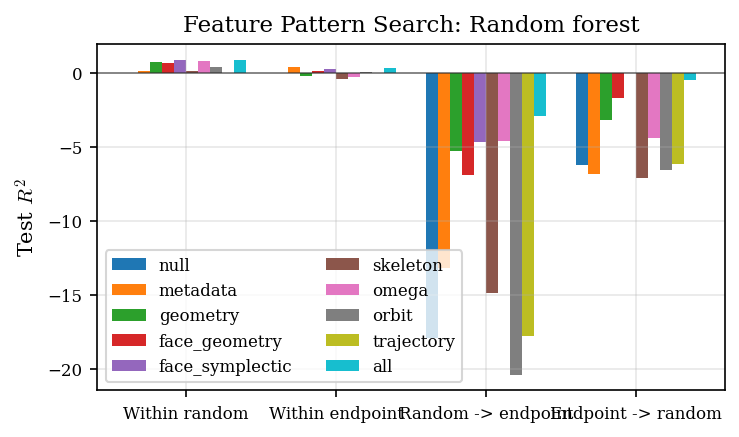
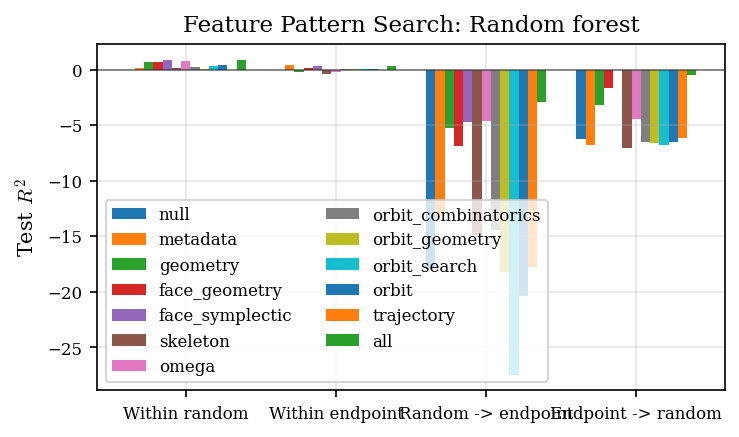
Split orbit feature analysis blocks

diff --git a/experiments/sys-landscape/feature-pattern-search/analyze.py b/experiments/sys-landscape/feature-pattern-search/analyze.py
@@ -95,11 +95,55 @@ FEATURE_BLOCKS = [
     "face_symplectic",
     "skeleton",
     "omega",
+    "orbit_combinatorics",
+    "orbit_geometry",
+    "orbit_search",
     "orbit",
     "trajectory",
     "all",
 ]
 MODEL_SPECS = [("ridge", "Ridge"), ("rf", "Random forest")]
+
+ORBIT_COMBINATORICS_KEYS = [
+    "orbit_sigma_available",
+    "orbit_sigma_count",
+    "orbit_sigma_gap_cutoff",
+    "orbit_sigma_len",
+    "orbit_sigma_fraction",
+    "orbit_selected_out_degree_mean",
+    "orbit_selected_out_degree_std",
+    "orbit_selected_out_degree_min",
+    "orbit_selected_out_degree_max",
+    "orbit_cycle_zero_fraction",
+    "orbit_cycle_transition_fraction",
+    "orbit_cycle_bidirectional_fraction",
+    "orbit_cycle_adjacent_fraction",
+]
+ORBIT_GEOMETRY_KEYS = [
+    "orbit_selected_norm_mean",
+    "orbit_selected_norm_std",
+    "orbit_selected_norm_min",
+    "orbit_selected_norm_max",
+    "orbit_cycle_abs_omega_mean",
+    "orbit_cycle_abs_omega_std",
+    "orbit_cycle_abs_omega_min",
+    "orbit_cycle_abs_omega_max",
+    "orbit_cycle_abs_omega_le_1e3_fraction",
+    "orbit_cycle_abs_omega_le_1e2_fraction",
+    "orbit_cycle_abs_omega_le_1e1_fraction",
+]
+ORBIT_SEARCH_KEYS = [
+    "orbit_kkt_available",
+    "orbit_search_scalar_available",
+    "orbit_result_iterations_log1p",
+    "orbit_result_returned_orbit_count",
+    "orbit_best_beta_margin",
+    "orbit_best_q_error_bound",
+    "orbit_best_has_mu",
+    "orbit_best_has_xi",
+    "orbit_best_is_admissible_exact",
+    "orbit_best_is_indeterminate_f64",
+]
 
 
 @dataclass
@@ -459,6 +503,12 @@ def build_feature_dict(row: JoinedRow, block: str) -> dict[str, float | str]:
         return dict(row.skeleton)
     if block == "omega":
         return dict(row.omega)
+    if block == "orbit_combinatorics":
+        return {key: row.orbit[key] for key in ORBIT_COMBINATORICS_KEYS}
+    if block == "orbit_geometry":
+        return {key: row.orbit[key] for key in ORBIT_GEOMETRY_KEYS}
+    if block == "orbit_search":
+        return {key: row.orbit[key] for key in ORBIT_SEARCH_KEYS}
     if block == "orbit":
         return dict(row.orbit)
     if block == "trajectory":
@@ -716,9 +766,12 @@ def write_summary(
             "- `face_symplectic`: ridge-polygon symplectic-area summaries after volume normalization by `vol(K)^(1/2)`",
             "- `skeleton`: combinatorial counts and degree summaries from the exact 4D face lattice",
             "- `omega`: volume-normalized dual-side `omega_0` magnitude summaries, exact omega-sign structure, and directed transition-graph summaries",
-            "- `orbit`: cached-`best_sigma` support size plus sigma-local geometry, `omega_0`, transition summaries, and bounded best-orbit KKT scalars",
+            "- `orbit_combinatorics`: cached-`best_sigma` support-size and cycle-structure summaries",
+            "- `orbit_geometry`: sigma-local dual-norm and cycle `omega_0` magnitude summaries",
+            "- `orbit_search`: bounded best-orbit KKT and search-scalar availability summaries",
+            "- `orbit`: the legacy merged orbit packet kept as a reference aggregate",
             "- `trajectory`: endpoint-keyed step-event aggregates such as overshoot mix, phase restarts, and gradient/step-size summaries",
-            "- `all`: metadata, geometry, face_geometry, face_symplectic, skeleton, omega, orbit, and trajectory together",
+            "- `all`: metadata, geometry, face_geometry, face_symplectic, skeleton, omega, orbit_combinatorics, orbit_geometry, orbit_search, orbit, and trajectory together",
             "",
             "## Symmetry Status",
             "",
@@ -730,7 +783,10 @@ def write_summary(
             "| `face_symplectic` | yes | yes | yes | Ridge-polygon symplectic areas divided by `vol(K)^(1/2)`. |",
             "| `skeleton` | yes | yes | yes | Pure combinatorics; unaffected by translation, `Sp(4)`, or scaling. |",
             "| `omega` | yes | no | mixed | `omega_0` magnitudes are volume-normalized, but the dual-coordinate packet still depends on translation gauge; transition graph and zero-sign structure do not. |",
-            "| `orbit` | mixed | mixed | mixed | Mixes sigma-local geometry, transition summaries, and search/KKT scalars. |",
+            "| `orbit_combinatorics` | yes | yes | yes | Sigma support counts and cycle-structure summaries. |",
+            "| `orbit_geometry` | yes | no | mixed | Sigma-local norms and cycle `omega_0` magnitudes. |",
+            "| `orbit_search` | no | no | no | Search-procedure diagnostics and cached KKT scalars. |",
+            "| `orbit` | mixed | mixed | mixed | Legacy aggregate of the three orbit sub-blocks above. |",
             "| `trajectory` | no | no | no | Search-procedure diagnostics, not geometry invariants. |",
             "",
             "## Metrics",
@@ -778,6 +834,9 @@ def write_summary(
     face_symplectic_random = ridge_rows[("within_random", "face_symplectic")]
     skeleton_random = ridge_rows[("within_random", "skeleton")]
     omega_random = ridge_rows[("within_random", "omega")]
+    orbit_combinatorics_random = ridge_rows[("within_random", "orbit_combinatorics")]
+    orbit_geometry_random = ridge_rows[("within_random", "orbit_geometry")]
+    orbit_search_random = ridge_rows[("within_random", "orbit_search")]
     orbit_random = ridge_rows[("within_random", "orbit")]
     trajectory_random = ridge_rows[("within_random", "trajectory")]
     metadata_random = ridge_rows[("within_random", "metadata")]
@@ -786,11 +845,23 @@ def write_summary(
     face_symplectic_endpoint = ridge_rows[("within_endpoint", "face_symplectic")]
     skeleton_endpoint = ridge_rows[("within_endpoint", "skeleton")]
     omega_endpoint = ridge_rows[("within_endpoint", "omega")]
+    orbit_combinatorics_endpoint = ridge_rows[("within_endpoint", "orbit_combinatorics")]
+    orbit_geometry_endpoint = ridge_rows[("within_endpoint", "orbit_geometry")]
+    orbit_search_endpoint = ridge_rows[("within_endpoint", "orbit_search")]
     orbit_endpoint = ridge_rows[("within_endpoint", "orbit")]
     trajectory_endpoint = ridge_rows[("within_endpoint", "trajectory")]
     metadata_endpoint = ridge_rows[("within_endpoint", "metadata")]
     all_random_to_endpoint = ridge_rows[("random_to_endpoint", "all")]
     trajectory_endpoint_to_random = ridge_rows[("endpoint_to_random", "trajectory")]
+    orbit_endpoint_subblocks = {
+        "combinatorics": orbit_combinatorics_endpoint,
+        "geometry": orbit_geometry_endpoint,
+        "search": orbit_search_endpoint,
+    }
+    best_orbit_endpoint_name, best_orbit_endpoint_row = max(
+        orbit_endpoint_subblocks.items(),
+        key=lambda item: item[1]["r2"],
+    )
     lines.extend(
         [
             "",
@@ -798,11 +869,13 @@ def write_summary(
             "",
             f"- within-random ridge: metadata `R^2={format_metric(metadata_random['r2'])}`, geometry `R^2={format_metric(geometry_random['r2'])}`, face_geometry `R^2={format_metric(face_geometry_random['r2'])}`, face_symplectic `R^2={format_metric(face_symplectic_random['r2'])}`, skeleton `R^2={format_metric(skeleton_random['r2'])}`, omega `R^2={format_metric(omega_random['r2'])}`, orbit `R^2={format_metric(orbit_random['r2'])}`, trajectory `R^2={format_metric(trajectory_random['r2'])}`",
             f"- within-endpoint ridge: metadata `R^2={format_metric(metadata_endpoint['r2'])}`, geometry `R^2={format_metric(geometry_endpoint['r2'])}`, face_geometry `R^2={format_metric(face_geometry_endpoint['r2'])}`, face_symplectic `R^2={format_metric(face_symplectic_endpoint['r2'])}`, skeleton `R^2={format_metric(skeleton_endpoint['r2'])}`, omega `R^2={format_metric(omega_endpoint['r2'])}`, orbit `R^2={format_metric(orbit_endpoint['r2'])}`, trajectory `R^2={format_metric(trajectory_endpoint['r2'])}`",
+            f"- orbit split on within-endpoint ridge: combinatorics `R^2={format_metric(orbit_combinatorics_endpoint['r2'])}`, geometry `R^2={format_metric(orbit_geometry_endpoint['r2'])}`, search `R^2={format_metric(orbit_search_endpoint['r2'])}`",
+            f"- endpoint-side orbit signal, if any, sits in `{best_orbit_endpoint_name}` (`R^2={format_metric(best_orbit_endpoint_row['r2'])}`)",
             "- random-forest strengthens the face-level picture: `face_geometry` remains strong within random, while volume-normalized `face_symplectic` stays the strongest non-metadata endpoint-side face block.",
             f"- random-to-endpoint transfer with full ridge block: `R^2={format_metric(all_random_to_endpoint['r2'])}`",
             f"- endpoint-to-random transfer with trajectory ridge: `R^2={format_metric(trajectory_endpoint_to_random['r2'])}`",
             "- All geometric magnitude blocks in this packet now use the `vol(K)=1` convention; other symmetry-aware normalizations remain possible and are not ruled out by this packet.",
-            "- the richer orbit block now includes bounded best-orbit KKT scalars, using cached search-level payloads where available and a one-best-sigma fallback solve on older cache rows.",
+            "- the richer orbit packet is now split into combinatorics, geometry, and search sub-blocks while keeping the merged `orbit` aggregate for reference.",
         ]
     )
 

diff --git a/experiments/sys-landscape/feature-pattern-search/feature_pattern_search_summary.md b/experiments/sys-landscape/feature-pattern-search/feature_pattern_search_summary.md
@@ -2,7 +2,7 @@
 
 ## Dataset
 
-- normalized input source: temporary refresh via `cargo run -p exp-sys-landscape --release --bin sys-normalized-dataset -- --out-dir /tmp/feature-pattern-search-a8v3jetr/normalized`
+- normalized input source: temporary refresh via `cargo run -p exp-sys-landscape --release --bin sys-normalized-dataset -- --out-dir /tmp/feature-pattern-search-3_fok5b7/normalized`
 - joined rows: `282`
 - random rows: `170`
 - endpoint rows: `112`
@@ -50,9 +50,12 @@
 - `face_symplectic`: ridge-polygon symplectic-area summaries after volume normalization by `vol(K)^(1/2)`
 - `skeleton`: combinatorial counts and degree summaries from the exact 4D face lattice
 - `omega`: volume-normalized dual-side `omega_0` magnitude summaries, exact omega-sign structure, and directed transition-graph summaries
-- `orbit`: cached-`best_sigma` support size plus sigma-local geometry, `omega_0`, transition summaries, and bounded best-orbit KKT scalars
+- `orbit_combinatorics`: cached-`best_sigma` support-size and cycle-structure summaries
+- `orbit_geometry`: sigma-local dual-norm and cycle `omega_0` magnitude summaries
+- `orbit_search`: bounded best-orbit KKT and search-scalar availability summaries
+- `orbit`: the legacy merged orbit packet kept as a reference aggregate
 - `trajectory`: endpoint-keyed step-event aggregates such as overshoot mix, phase restarts, and gradient/step-size summaries
-- `all`: metadata, geometry, face_geometry, face_symplectic, skeleton, omega, orbit, and trajectory together
+- `all`: metadata, geometry, face_geometry, face_symplectic, skeleton, omega, orbit_combinatorics, orbit_geometry, orbit_search, orbit, and trajectory together
 
 ## Symmetry Status
 
@@ -64,7 +67,10 @@
 | `face_symplectic` | yes | yes | yes | Ridge-polygon symplectic areas divided by `vol(K)^(1/2)`. |
 | `skeleton` | yes | yes | yes | Pure combinatorics; unaffected by translation, `Sp(4)`, or scaling. |
 | `omega` | yes | no | mixed | `omega_0` magnitudes are volume-normalized, but the dual-coordinate packet still depends on translation gauge; transition graph and zero-sign structure do not. |
-| `orbit` | mixed | mixed | mixed | Mixes sigma-local geometry, transition summaries, and search/KKT scalars. |
+| `orbit_combinatorics` | yes | yes | yes | Sigma support counts and cycle-structure summaries. |
+| `orbit_geometry` | yes | no | mixed | Sigma-local norms and cycle `omega_0` magnitudes. |
+| `orbit_search` | no | no | no | Search-procedure diagnostics and cached KKT scalars. |
+| `orbit` | mixed | mixed | mixed | Legacy aggregate of the three orbit sub-blocks above. |
 | `trajectory` | no | no | no | Search-procedure diagnostics, not geometry invariants. |
 
 ## Metrics
@@ -82,6 +88,9 @@ Reported metrics are test-set `R^2` and RMSE. Within-regime results use grouped 
 | Within random | `face_symplectic` | 0.5483 | 0.1380 |
 | Within random | `skeleton` | 0.1628 | 0.1879 |
 | Within random | `omega` | 0.4251 | 0.1557 |
+| Within random | `orbit_combinatorics` | 0.2686 | 0.1756 |
+| Within random | `orbit_geometry` | 0.0350 | 0.2017 |
+| Within random | `orbit_search` | 0.4301 | 0.1550 |
 | Within random | `orbit` | 0.4495 | 0.1523 |
 | Within random | `trajectory` | -0.0140 | 0.2068 |
 | Within random | `all` | 0.5985 | 0.1301 |
@@ -92,6 +101,9 @@ Reported metrics are test-set `R^2` and RMSE. Within-regime results use grouped 
 | Within endpoint | `face_symplectic` | 0.4000 | 0.0940 |
 | Within endpoint | `skeleton` | -0.0588 | 0.1248 |
 | Within endpoint | `omega` | 0.0901 | 0.1157 |
+| Within endpoint | `orbit_combinatorics` | 0.1186 | 0.1139 |
+| Within endpoint | `orbit_geometry` | 0.1275 | 0.1133 |
+| Within endpoint | `orbit_search` | 0.1197 | 0.1138 |
 | Within endpoint | `orbit` | 0.1104 | 0.1144 |
 | Within endpoint | `trajectory` | 0.0066 | 0.1209 |
 | Within endpoint | `all` | 0.3239 | 0.0997 |
@@ -102,6 +114,9 @@ Reported metrics are test-set `R^2` and RMSE. Within-regime results use grouped 
 | Random -> endpoint | `face_symplectic` | -9.1481 | 0.3864 |
 | Random -> endpoint | `skeleton` | -12.5768 | 0.4470 |
 | Random -> endpoint | `omega` | -11.9827 | 0.4371 |
+| Random -> endpoint | `orbit_combinatorics` | -14.6469 | 0.4799 |
+| Random -> endpoint | `orbit_geometry` | -21.4307 | 0.5745 |
+| Random -> endpoint | `orbit_search` | -36.5149 | 0.7430 |
 | Random -> endpoint | `orbit` | -32.4641 | 0.7018 |
 | Random -> endpoint | `trajectory` | -17.8854 | 0.5272 |
 | Random -> endpoint | `all` | -11.0146 | 0.4205 |
@@ -112,6 +127,9 @@ Reported metrics are test-set `R^2` and RMSE. Within-regime results use grouped 
 | Endpoint -> random | `face_symplectic` | -20.1806 | 0.9450 |
 | Endpoint -> random | `skeleton` | -7.3161 | 0.5921 |
 | Endpoint -> random | `omega` | -3.4124 | 0.4313 |
+| Endpoint -> random | `orbit_combinatorics` | -6.9007 | 0.5771 |
+| Endpoint -> random | `orbit_geometry` | -7.0820 | 0.5837 |
+| Endpoint -> random | `orbit_search` | -6.4751 | 0.5614 |
 | Endpoint -> random | `orbit` | -6.6180 | 0.5667 |
 | Endpoint -> random | `trajectory` | -6.1604 | 0.5494 |
 | Endpoint -> random | `all` | -22.9752 | 1.0054 |
@@ -127,6 +145,9 @@ Reported metrics are test-set `R^2` and RMSE. Within-regime results use grouped 
 | Within random | `face_symplectic` | 0.8779 | 0.0717 |
 | Within random | `skeleton` | 0.1103 | 0.1937 |
 | Within random | `omega` | 0.7948 | 0.0930 |
+| Within random | `orbit_combinatorics` | 0.2083 | 0.1827 |
+| Within random | `orbit_geometry` | 0.0430 | 0.2009 |
+| Within random | `orbit_search` | 0.2902 | 0.1730 |
 | Within random | `orbit` | 0.3970 | 0.1594 |
 | Within random | `trajectory` | -0.0147 | 0.2068 |
 | Within random | `all` | 0.9003 | 0.0648 |
@@ -137,6 +158,9 @@ Reported metrics are test-set `R^2` and RMSE. Within-regime results use grouped 
 | Within endpoint | `face_symplectic` | 0.2934 | 0.1020 |
 | Within endpoint | `skeleton` | -0.3751 | 0.1423 |
 | Within endpoint | `omega` | -0.2536 | 0.1358 |
+| Within endpoint | `orbit_combinatorics` | 0.0739 | 0.1167 |
+| Within endpoint | `orbit_geometry` | 0.0785 | 0.1165 |
+| Within endpoint | `orbit_search` | 0.0395 | 0.1189 |
 | Within endpoint | `orbit` | 0.0967 | 0.1153 |
 | Within endpoint | `trajectory` | 0.0003 | 0.1213 |
 | Within endpoint | `all` | 0.3438 | 0.0983 |
@@ -147,6 +171,9 @@ Reported metrics are test-set `R^2` and RMSE. Within-regime results use grouped 
 | Random -> endpoint | `face_symplectic` | -4.6835 | 0.2892 |
 | Random -> endpoint | `skeleton` | -14.8860 | 0.4835 |
 | Random -> endpoint | `omega` | -4.6180 | 0.2875 |
+| Random -> endpoint | `orbit_combinatorics` | -14.3903 | 0.4759 |
+| Random -> endpoint | `orbit_geometry` | -18.2522 | 0.5323 |
+| Random -> endpoint | `orbit_search` | -27.4477 | 0.6470 |
 | Random -> endpoint | `orbit` | -20.3696 | 0.5608 |
 | Random -> endpoint | `trajectory` | -17.7599 | 0.5254 |
 | Random -> endpoint | `all` | -2.8902 | 0.2393 |
@@ -157,6 +184,9 @@ Reported metrics are test-set `R^2` and RMSE. Within-regime results use grouped 
 | Endpoint -> random | `face_symplectic` | -0.0082 | 0.2062 |
 | Endpoint -> random | `skeleton` | -7.0737 | 0.5834 |
 | Endpoint -> random | `omega` | -4.4154 | 0.4778 |
+| Endpoint -> random | `orbit_combinatorics` | -6.5284 | 0.5634 |
+| Endpoint -> random | `orbit_geometry` | -6.5943 | 0.5658 |
+| Endpoint -> random | `orbit_search` | -6.7741 | 0.5725 |
 | Endpoint -> random | `orbit` | -6.5339 | 0.5636 |
 | Endpoint -> random | `trajectory` | -6.1450 | 0.5488 |
 | Endpoint -> random | `all` | -0.4932 | 0.2509 |
@@ -175,8 +205,10 @@ Reported metrics are test-set `R^2` and RMSE. Within-regime results use grouped 
 
 - within-random ridge: metadata `R^2=0.1846`, geometry `R^2=0.4427`, face_geometry `R^2=0.3847`, face_symplectic `R^2=0.5483`, skeleton `R^2=0.1628`, omega `R^2=0.4251`, orbit `R^2=0.4495`, trajectory `R^2=-0.0140`
 - within-endpoint ridge: metadata `R^2=0.4364`, geometry `R^2=-0.0965`, face_geometry `R^2=0.1030`, face_symplectic `R^2=0.4000`, skeleton `R^2=-0.0588`, omega `R^2=0.0901`, orbit `R^2=0.1104`, trajectory `R^2=0.0066`
+- orbit split on within-endpoint ridge: combinatorics `R^2=0.1186`, geometry `R^2=0.1275`, search `R^2=0.1197`
+- endpoint-side orbit signal, if any, sits in `geometry` (`R^2=0.1275`)
 - random-forest strengthens the face-level picture: `face_geometry` remains strong within random, while volume-normalized `face_symplectic` stays the strongest non-metadata endpoint-side face block.
 - random-to-endpoint transfer with full ridge block: `R^2=-11.0146`
 - endpoint-to-random transfer with trajectory ridge: `R^2=-6.1604`
 - All geometric magnitude blocks in this packet now use the `vol(K)=1` convention; other symmetry-aware normalizations remain possible and are not ruled out by this packet.
-- the richer orbit block now includes bounded best-orbit KKT scalars, using cached search-level payloads where available and a one-best-sigma fallback solve on older cache rows.
+- the richer orbit packet is now split into combinatorics, geometry, and search sub-blocks while keeping the merged `orbit` aggregate for reference.

diff --git a/research/sys-landscape/design/feature-pattern-search.md b/research/sys-landscape/design/feature-pattern-search.md
@@ -54,6 +54,9 @@ Implementation status:
   the endpoint regime more than geometry/skeleton/omega alone
   (`R^2 ≈ 0.11` with ridge), but they still underperform the metadata baseline
   (`R^2 ≈ 0.44`) and remain strongly non-transferable
+- 2026-04-18: the orbit packet is now interpreted as three sub-blocks
+  (`orbit_combinatorics`, `orbit_geometry`, `orbit_search`) with the merged
+  `orbit` packet kept only as a reference aggregate
 - current implication:
   there is still no evidence for a cheap transferable pattern; the next
   enrichment step, if pursued, should move past cached-`best_sigma` summaries
